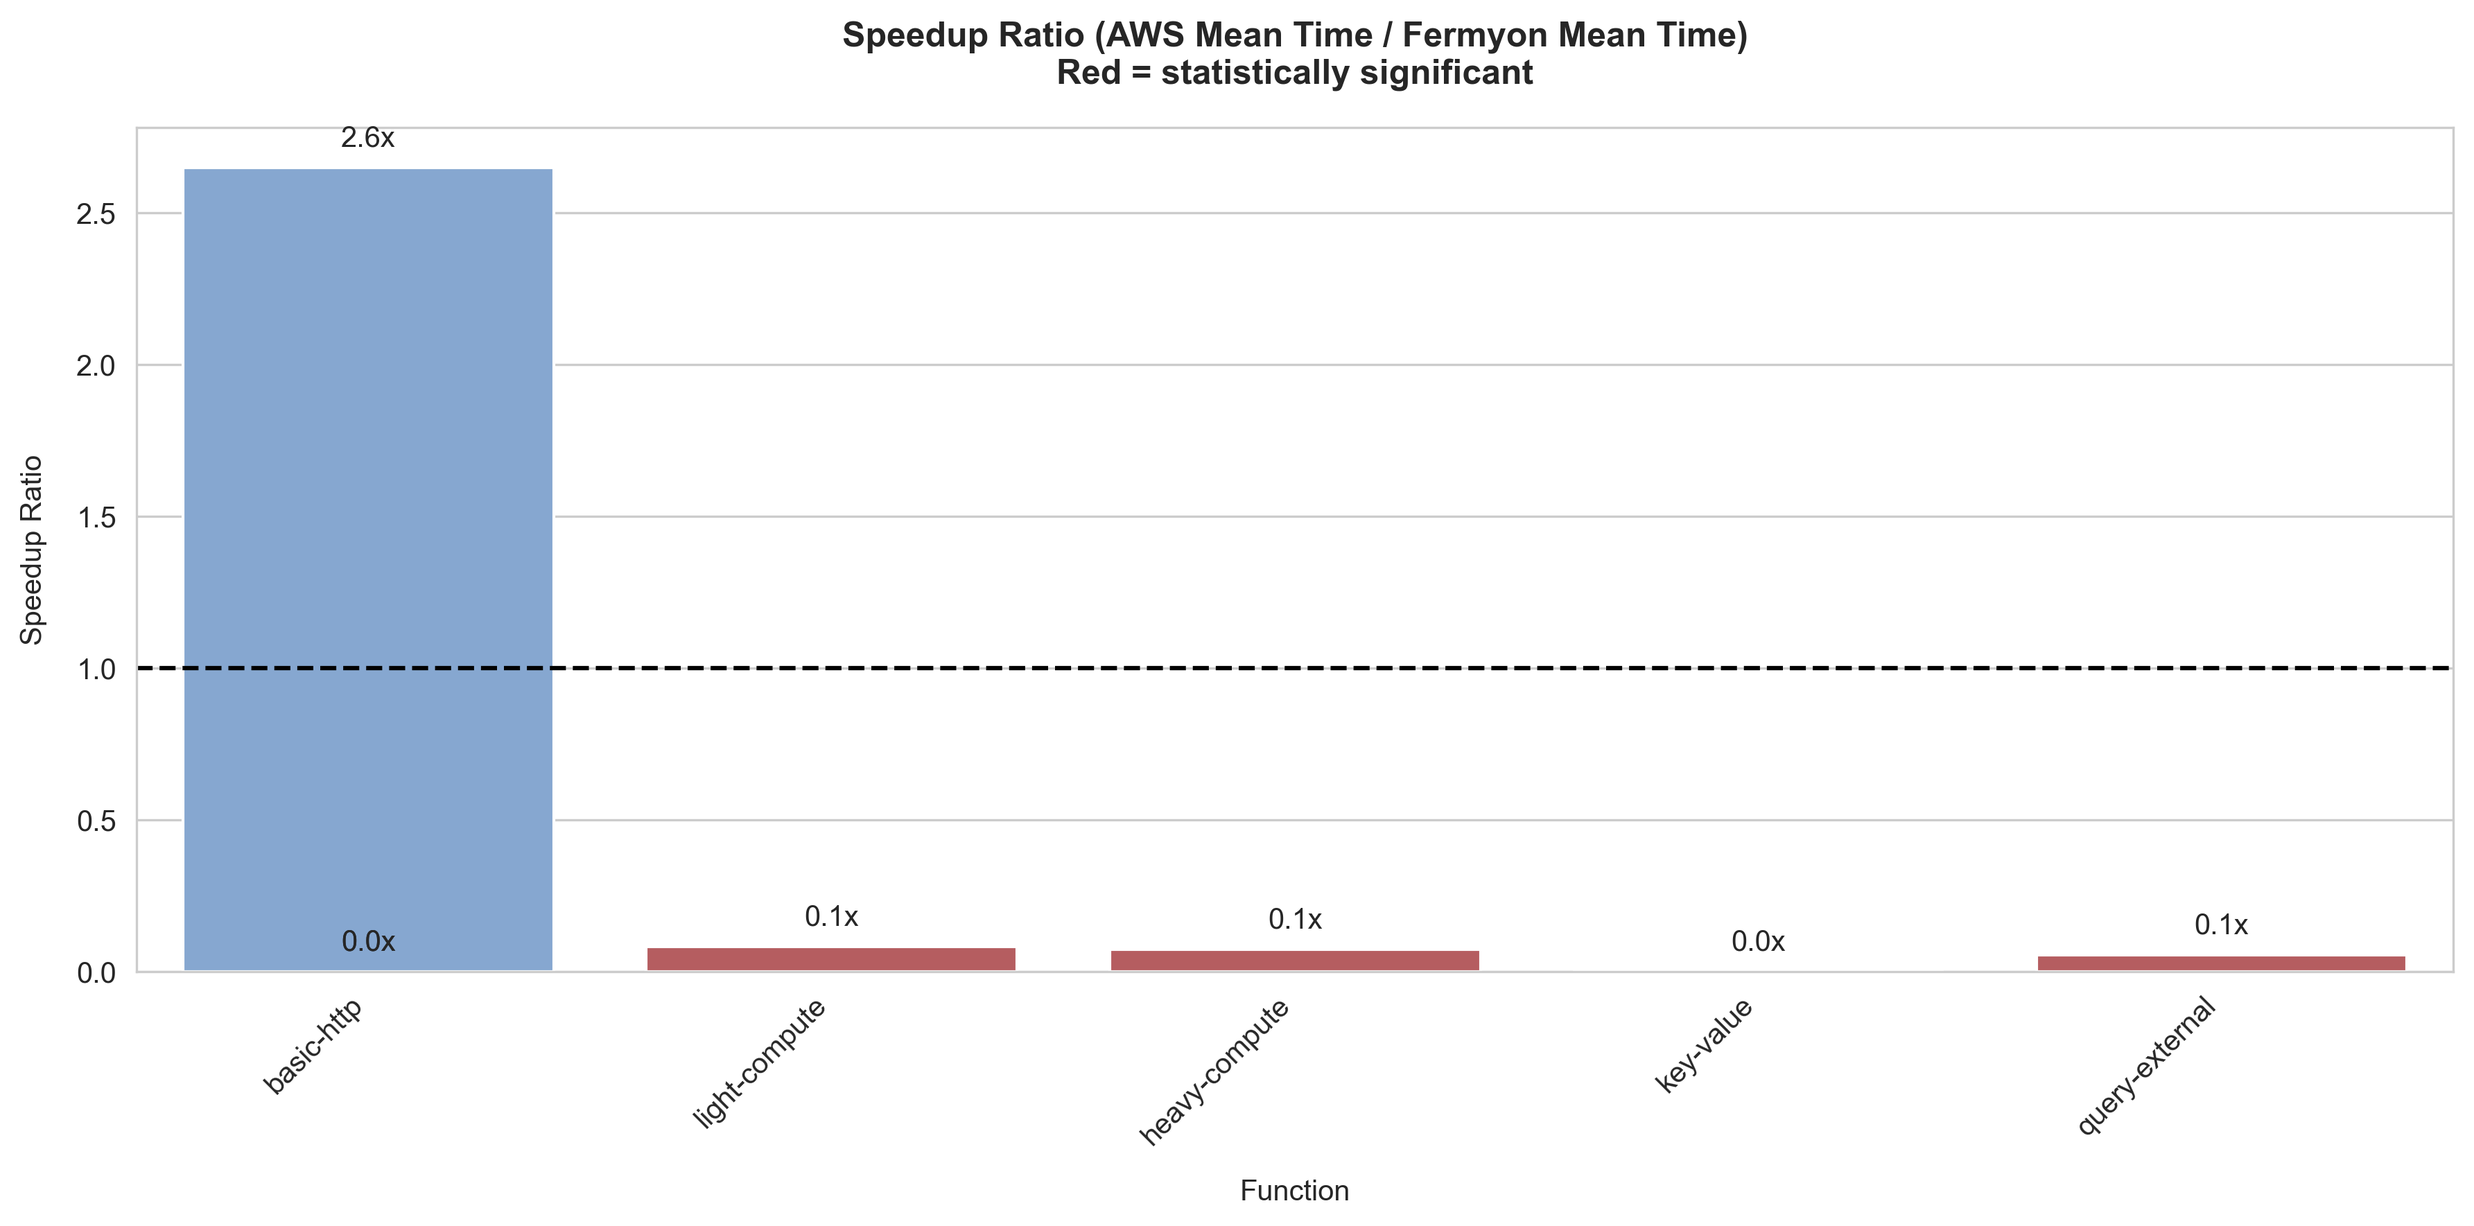
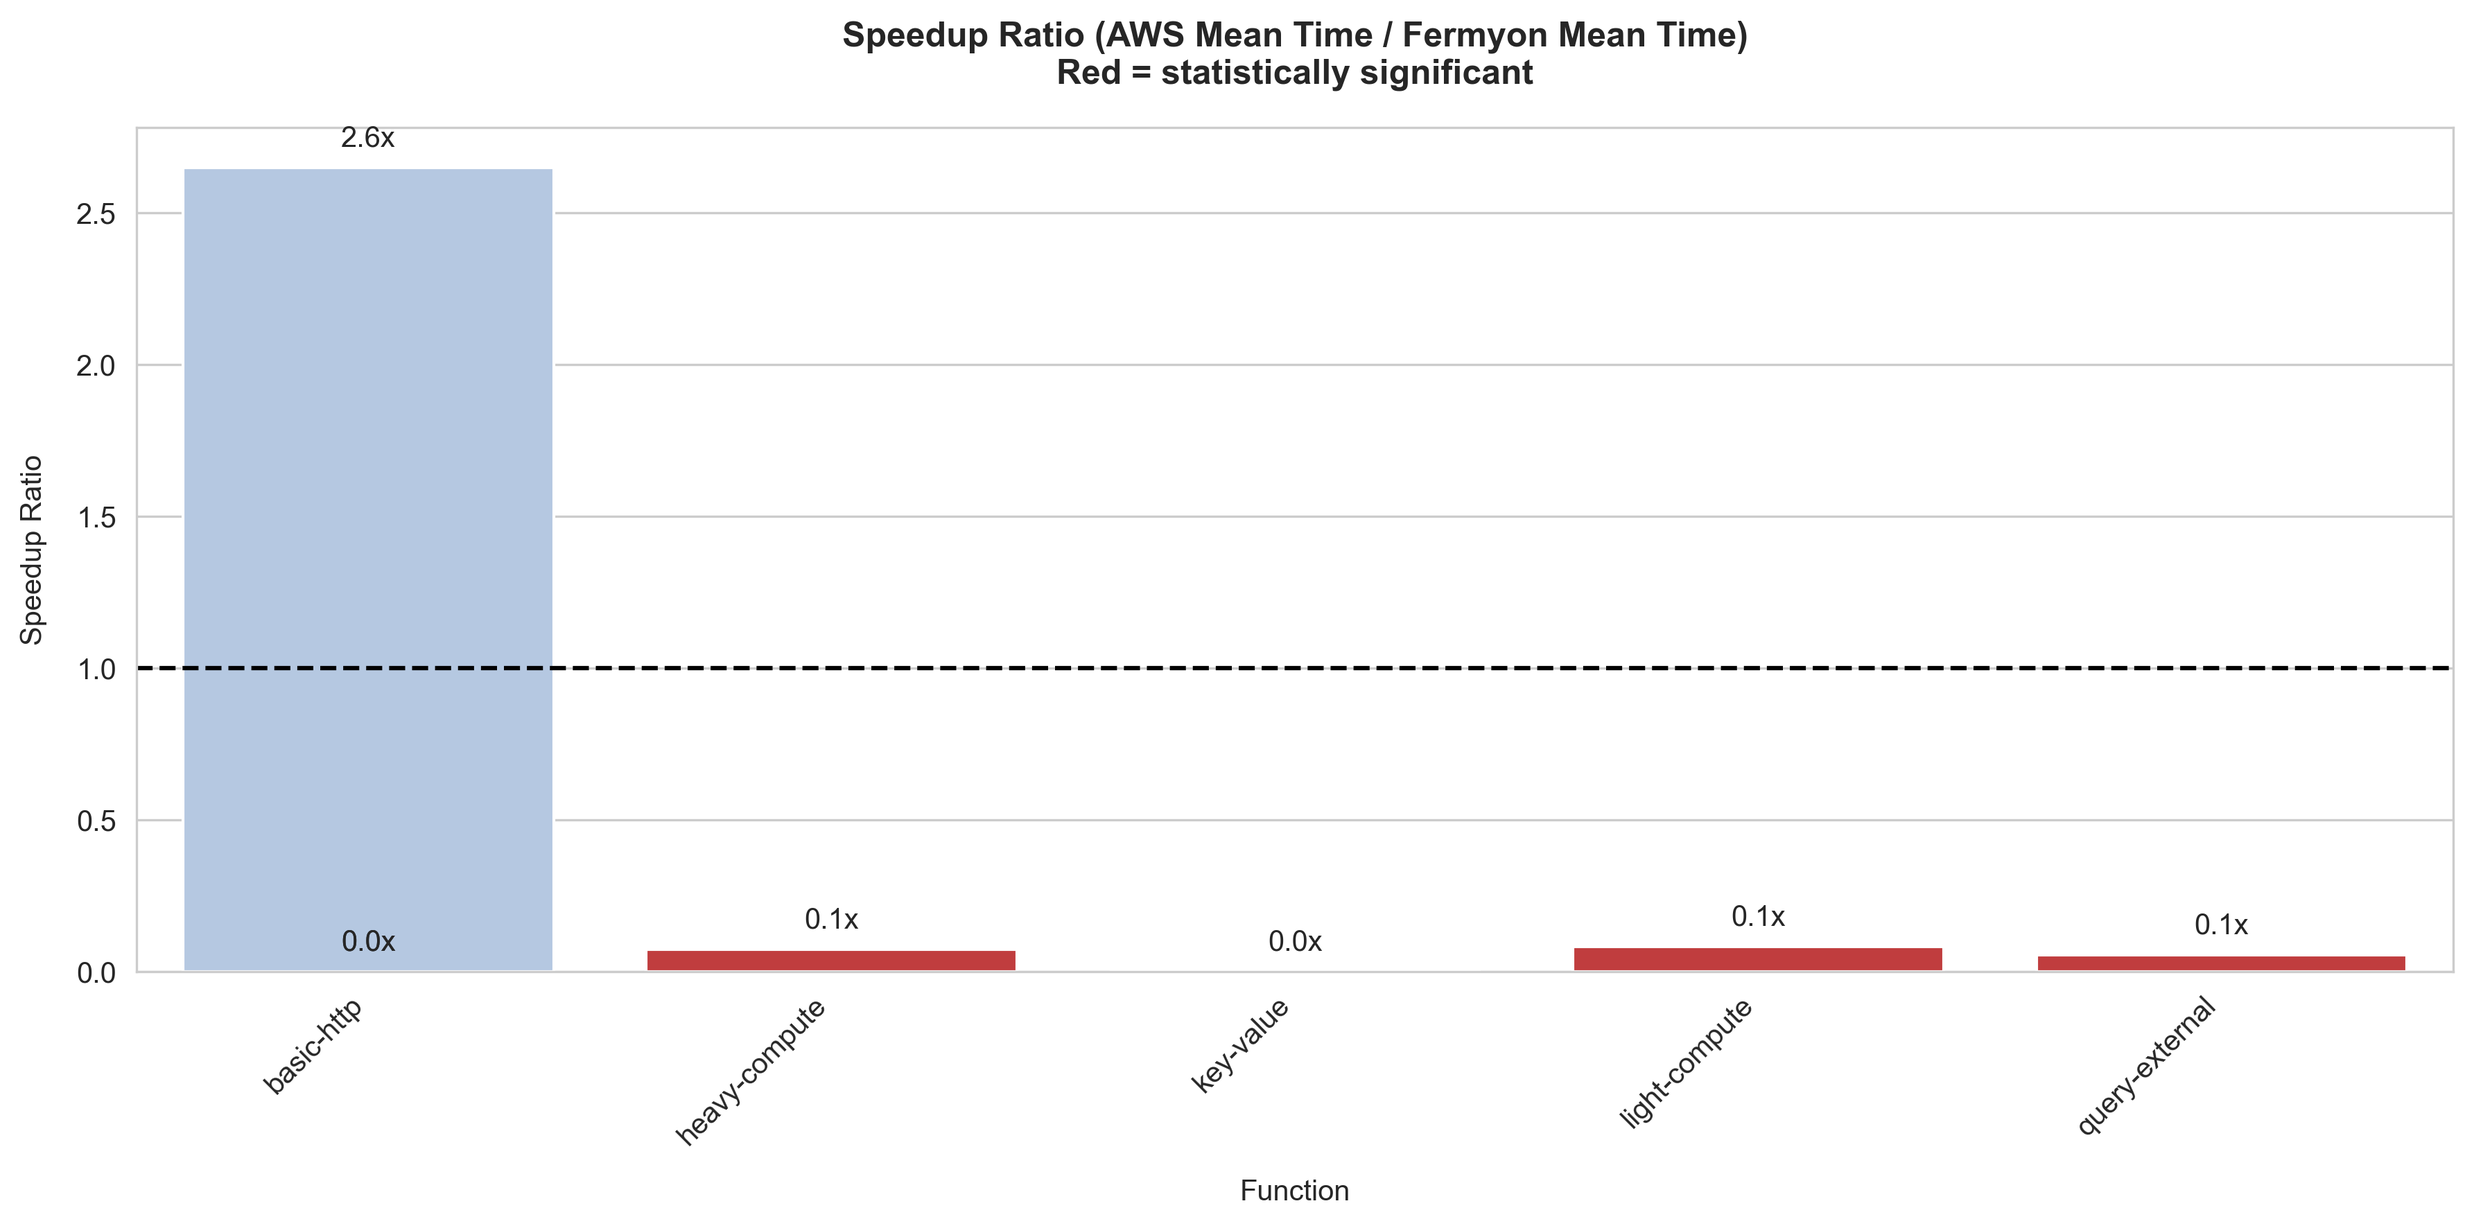
modify plots and graphs

diff --git a/scripts/h1_execution_performance.py b/scripts/h1_execution_performance.py
@@ -11,14 +11,32 @@ OUTPUT_DIR = "outputs"
 os.makedirs(os.path.join(OUTPUT_DIR, "reports"), exist_ok=True)
 os.makedirs(os.path.join(OUTPUT_DIR, "figures"), exist_ok=True)
 
+# Define consistent ordering and colors
+FUNCTION_ORDER = ['basic-http', 'light-compute', 'heavy-compute', 'key-value', 'query-external']
+PLATFORM_ORDER = ['AWS Lambda', 'Fermyon Spin']  # AWS first for consistent ordering
+PLATFORM_COLORS = {'AWS Lambda': '#1f77b4', 'Fermyon Spin': '#ff7f0e'}  # Consistent with speedup_ratio colors
+SIGNIFICANCE_COLOR = '#d62728'  # Red for significant results
+INSIGNIFICANT_COLOR = '#aec7e8'  # Blue for non-significant
+
+# Set global style parameters
+sns.set_style("whitegrid")
+plt.rcParams['figure.facecolor'] = 'white'
+plt.rcParams['axes.titlesize'] = 14
+plt.rcParams['axes.titleweight'] = 'bold'
+plt.rcParams['axes.labelsize'] = 12
+plt.rcParams['xtick.labelsize'] = 10
+plt.rcParams['ytick.labelsize'] = 10
+
+
 def load_data():
     """Load and verify the cleaned data"""
     if not os.path.exists(DATA_PATH):
         raise FileNotFoundError(f"Cleaned data not found at {DATA_PATH}. Please run clean_data.py first.")
-    
+
     df = pd.read_csv(DATA_PATH, parse_dates=['timestamp'])
     print(f"Loaded {len(df)} records from {DATA_PATH}")
     return df
+
 
 def calculate_stats(group):
     """Helper function to calculate statistics for a group"""
@@ -32,10 +50,11 @@ def calculate_stats(group):
         'count': group.count()
     })
 
+
 def check_normality(df_exec):
     """Check normality of execution times for each function-platform combination"""
     normality_results = []
-    
+
     for (func, platform), group in df_exec.groupby(['name', 'platform']):
         if len(group) > 3:
             stat, p = stats.shapiro(group['execution_ms'])
@@ -47,14 +66,16 @@ def check_normality(df_exec):
                 'is_normal': p > 0.05,
                 'sample_size': len(group)
             })
-    
+
     normality_df = pd.DataFrame(normality_results)
     normality_df.to_csv(os.path.join(OUTPUT_DIR, "reports", "normality_tests.csv"), index=False)
-    
-    # Generate visualization
+
+    # Generate visualization with consistent ordering
     plt.figure(figsize=(10, 6))
-    sns.scatterplot(x='function', y='p_value', hue='platform', style='is_normal',
-                    data=normality_df, palette=['#4C72B0', '#DD8452'], s=100)
+    sns.scatterplot(
+        x='function', y='p_value', hue='platform', style='is_normal',
+        data=normality_df, palette=PLATFORM_COLORS, s=100,
+        hue_order=PLATFORM_ORDER)
     plt.axhline(y=0.05, color='red', linestyle='--', label='Significance Threshold (0.05)')
     plt.title('Normality Test Results (Shapiro-Wilk)', weight='bold')
     plt.ylabel('p-value', labelpad=10)
@@ -64,57 +85,60 @@ def check_normality(df_exec):
     plt.legend(title='Normality', bbox_to_anchor=(1.05, 1), loc='upper left')
     plt.tight_layout()
     plt.savefig(os.path.join(OUTPUT_DIR, "figures", "normality_test_results.png"), 
-               dpi=300, bbox_inches='tight')
+                dpi=300, bbox_inches='tight')
     plt.close()
-    
+
     return normality_df
+
 
 def analyze_execution_performance(df):
     """Main analysis function"""
-    # Filter out cold starts for execution time analysis
     df_exec = df[df['cold_start'] == False].copy()
-    
-    # Platform-level analysis
+
+    # Calculate platform statistics
     platform_stats = df_exec.groupby('platform')['execution_ms'].apply(calculate_stats).unstack()
     platform_stats.to_csv(os.path.join(OUTPUT_DIR, "reports", "platform_execution_stats.csv"))
-    
-    # Function-level analysis
+
+    # Calculate function statistics with consistent ordering
+    df_exec['name'] = pd.Categorical(df_exec['name'], categories=FUNCTION_ORDER, ordered=True)
     function_stats = df_exec.groupby(['name', 'platform'])['execution_ms'].apply(calculate_stats).unstack()
     function_stats.to_csv(os.path.join(OUTPUT_DIR, "reports", "function_execution_stats.csv"))
-    
+
     return df_exec, platform_stats, function_stats
 
+
 def perform_comparative_analysis(df_exec, normality_df=None):
-    """Compare Fermyon vs AWS Lambda performance using appropriate statistical tests"""
+    """Perform comparative analysis between platforms for each function"""
     functions = df_exec['name'].unique()
     comparison_results = []
 
     for func in functions:
         fermyon_data = df_exec[(df_exec['name'] == func) & (df_exec['platform'] == 'Fermyon Spin')]['execution_ms']
         aws_data = df_exec[(df_exec['name'] == func) & (df_exec['platform'] == 'AWS Lambda')]['execution_ms']
-        
+
         if len(fermyon_data) > 1 and len(aws_data) > 1:
-            # Check normality if results are available
             use_parametric = False
             if normality_df is not None:
-                fermyon_normal = normality_df[(normality_df['function'] == func) & 
-                                           (normality_df['platform'] == 'Fermyon Spin')]['is_normal'].values[0]
-                aws_normal = normality_df[(normality_df['function'] == func) & 
-                                        (normality_df['platform'] == 'AWS Lambda')]['is_normal'].values[0]
+                fermyon_normal = normality_df[
+                    (normality_df['function'] == func) & 
+                    (normality_df['platform'] == 'Fermyon Spin')
+                ]['is_normal'].values[0]
+                aws_normal = normality_df[
+                    (normality_df['function'] == func) & 
+                    (normality_df['platform'] == 'AWS Lambda')
+                ]['is_normal'].values[0]
                 use_parametric = fermyon_normal and aws_normal
-            
+
             if use_parametric:
-                # Use t-test for normally distributed data
                 stat, p_value = stats.ttest_ind(fermyon_data, aws_data, equal_var=False)
                 test_used = 't-test'
             else:
-                # Use Mann-Whitney U test for non-normal data
                 stat, p_value = stats.mannwhitneyu(fermyon_data, aws_data, alternative='two-sided')
                 test_used = 'mannwhitneyu'
         else:
             stat, p_value = np.nan, np.nan
             test_used = None
-        
+
         comparison_results.append({
             'function': func,
             'fermyon_mean': fermyon_data.mean(),
@@ -129,42 +153,72 @@ def perform_comparative_analysis(df_exec, normality_df=None):
             'statistic': stat,
             'p_value': p_value,
             'test_used': test_used,
-            'fermyon_faster': fermyon_data.mean() < aws_data.mean()
+            'fermyon_faster': fermyon_data.mean() < aws_data.mean(),
+            'is_significant': p_value < 0.05 if pd.notna(p_value) else False
         })
 
     comparison_df = pd.DataFrame(comparison_results)
     comparison_df.to_csv(os.path.join(OUTPUT_DIR, "reports", "function_comparison_stats.csv"), index=False)
     return comparison_df
 
+
 def generate_visualizations(df_exec, comparison_df):
-    """Generate non-overlapping performance comparison visualizations"""
-    sns.set_style("whitegrid")
-    plt.rcParams['figure.facecolor'] = 'white'
+    """Generate all visualizations with consistent styling and ordering"""
     
-    # 1. Mean Execution Time Comparison
+    # Ensure consistent ordering
+    df_exec['name'] = pd.Categorical(df_exec['name'], categories=FUNCTION_ORDER, ordered=True)
+    comparison_df['function'] = pd.Categorical(comparison_df['function'], categories=FUNCTION_ORDER, ordered=True)
+    
+    # 1. Coefficient of Variation Comparison Bar Plot
     plt.figure(figsize=(12, 6))
+    cv_df = comparison_df.melt(id_vars=['function'], 
+                             value_vars=['aws_cv', 'fermyon_cv'],
+                             var_name='platform', value_name='cv')
+    cv_df['platform'] = cv_df['platform'].map({'aws_cv': 'AWS Lambda', 'fermyon_cv': 'Fermyon Spin'})
     
-    # Prepare data for plotting
+    sns.barplot(x='function', y='cv', hue='platform', data=cv_df,
+                palette=PLATFORM_COLORS, hue_order=PLATFORM_ORDER)
+    plt.title("Coefficient of Variation Comparison", weight='bold', pad=15)
+    plt.ylabel("Coefficient of Variation (%)", labelpad=10)
+    plt.xlabel("Function", labelpad=10)
+    plt.xticks(rotation=45, ha='right')
+    plt.legend(title='Platform', bbox_to_anchor=(1.05, 1), loc='upper left')
+    plt.tight_layout()
+    plt.savefig(os.path.join(OUTPUT_DIR, "figures", "cv_comparison_barplot.png"), 
+                dpi=300, bbox_inches='tight')
+    plt.close()
+    
+    # 2. Function Execution Bar Plot
+    plt.figure(figsize=(12, 6))
+    ax = sns.barplot(x='name', y='execution_ms', hue='platform', data=df_exec,
+                     palette=PLATFORM_COLORS, hue_order=PLATFORM_ORDER,
+                     estimator=np.mean, errorbar=('ci', 95))
+    plt.title("Mean Execution Time by Function", weight='bold', pad=15)
+    plt.ylabel("Execution Time (ms)", labelpad=10)
+    plt.xlabel("Function", labelpad=10)
+    plt.xticks(rotation=45, ha='right')
+    plt.legend(title='Platform', bbox_to_anchor=(1.05, 1), loc='upper left')
+    plt.tight_layout()
+    plt.savefig(os.path.join(OUTPUT_DIR, "figures", "function_execution_barplot.png"), 
+                dpi=300, bbox_inches='tight')
+    plt.close()
+    
+    # 3. Mean Execution Comparison (with significance stars)
+    plt.figure(figsize=(12, 6))
     plot_df = pd.DataFrame({
         'function': np.concatenate([comparison_df['function'], comparison_df['function']]),
-        'platform': ['Fermyon Spin']*len(comparison_df) + ['AWS Lambda']*len(comparison_df),
-        'mean_time': np.concatenate([comparison_df['fermyon_mean'], comparison_df['aws_mean']]),
-        'is_faster': np.concatenate([
-            [True]*len(comparison_df),
-            [False]*len(comparison_df)
-        ])
+        'platform': PLATFORM_ORDER * len(comparison_df),
+        'mean_time': np.concatenate([comparison_df['aws_mean'], comparison_df['fermyon_mean']])
     })
     
-    # Create the plot
-    ax = sns.barplot(x='function', y='mean_time', hue='platform',
-                    data=plot_df, palette={'Fermyon Spin': '#4C72B0', 'AWS Lambda': '#DD8452'})
-    
-    # Add significance markers
+    ax = sns.barplot(x='function', y='mean_time', hue='platform', data=plot_df,
+                     palette=PLATFORM_COLORS, hue_order=PLATFORM_ORDER)
+
     for i, row in comparison_df.iterrows():
-        if row['p_value'] < 0.05:
+        if row['is_significant']:
             ax.text(i, max(row['fermyon_mean'], row['aws_mean']) * 1.1, "*", 
-                   ha='center', va='bottom', fontsize=20, color='black')
-    
+                    ha='center', va='bottom', fontsize=20, color=SIGNIFICANCE_COLOR)
+
     plt.title("Mean Execution Time Comparison\n(* = statistically significant difference)", 
               weight='bold', pad=15)
     plt.ylabel("Mean Execution Time (ms)", labelpad=10)
@@ -173,39 +227,75 @@ def generate_visualizations(df_exec, comparison_df):
     plt.legend(title='Platform', bbox_to_anchor=(1.05, 1), loc='upper left')
     plt.tight_layout()
     plt.savefig(os.path.join(OUTPUT_DIR, "figures", "mean_execution_comparison.png"), 
-               dpi=300, bbox_inches='tight')
+                dpi=300, bbox_inches='tight')
     plt.close()
     
-    # 2. Speedup Ratio Plot
+    # 4. Performance Difference Bar Plot (Fermyon vs AWS)
     plt.figure(figsize=(12, 6))
+    ax = sns.barplot(x='function', y='mean_difference', data=comparison_df,
+                     palette=comparison_df['is_significant'].map({
+                         True: SIGNIFICANCE_COLOR,
+                         False: INSIGNIFICANT_COLOR
+                     }))
+    plt.axhline(0, color='black', linestyle='--')
+    plt.title("Performance Difference (Fermyon Mean - AWS Mean)\nRed = statistically significant", 
+              weight='bold', pad=15)
+    plt.ylabel("Mean Time Difference (ms)", labelpad=10)
+    plt.xlabel("Function", labelpad=10)
+    plt.xticks(rotation=45, ha='right')
+    
+    for p in ax.patches:
+        height = p.get_height()
+        ax.text(p.get_x() + p.get_width()/2., height,
+                f'{height:.1f}',
+                ha='center', va='bottom')
+    
+    plt.tight_layout()
+    plt.savefig(os.path.join(OUTPUT_DIR, "figures", "performance_difference_barplot.png"), 
+                dpi=300, bbox_inches='tight')
+    plt.close()
+    
+    # 5. Platform Execution Boxplot
+    plt.figure(figsize=(12, 6))
+    sns.boxplot(x='name', y='execution_ms', hue='platform', data=df_exec,
+                palette=PLATFORM_COLORS, hue_order=PLATFORM_ORDER)
+    plt.title("Execution Time Distribution by Platform", weight='bold', pad=15)
+    plt.ylabel("Execution Time (ms)", labelpad=10)
+    plt.xlabel("Function", labelpad=10)
+    plt.xticks(rotation=45, ha='right')
+    plt.legend(title='Platform', bbox_to_anchor=(1.05, 1), loc='upper left')
+    plt.tight_layout()
+    plt.savefig(os.path.join(OUTPUT_DIR, "figures", "platform_execution_boxplot.png"), 
+                dpi=300, bbox_inches='tight')
+    plt.close()
+    
+    # 6. Speedup Ratio (using consistent colors)
     speedup_df = comparison_df.assign(
-        speedup_ratio=lambda x: x["aws_mean"] / x["fermyon_mean"],
-        is_significant=lambda x: x["p_value"] < 0.05
+        speedup_ratio=lambda x: x["aws_mean"] / x["fermyon_mean"]
     )
     
+    plt.figure(figsize=(12, 6))
     ax = sns.barplot(x='function', y='speedup_ratio', hue='is_significant',
-                    data=speedup_df, palette={True: '#C44E52', False: '#7AA6DC'},
-                    dodge=False)
-    
+                     data=speedup_df, palette={True: SIGNIFICANCE_COLOR, False: INSIGNIFICANT_COLOR}, 
+                     dodge=False)
+
     plt.axhline(1, color='black', linestyle='--')
     plt.title("Speedup Ratio (AWS Mean Time / Fermyon Mean Time)\nRed = statistically significant", 
               weight='bold', pad=15)
     plt.ylabel("Speedup Ratio", labelpad=10)
     plt.xlabel("Function", labelpad=10)
     plt.xticks(rotation=45, ha='right')
-    
-    # Annotate values
+
     for p in ax.patches:
-        ax.annotate(f"{p.get_height():.1f}x", 
-                   (p.get_x() + p.get_width() / 2., p.get_height()), 
-                   ha='center', va='center', 
-                   xytext=(0, 10), textcoords='offset points')
-    
-    plt.legend([],[], frameon=False)
+        ax.annotate(f"{p.get_height():.1f}x", (p.get_x() + p.get_width() / 2., p.get_height()),
+                    ha='center', va='center', xytext=(0, 10), textcoords='offset_points')
+
+    plt.legend([], [], frameon=False)
     plt.tight_layout()
     plt.savefig(os.path.join(OUTPUT_DIR, "figures", "speedup_ratio.png"), 
-               dpi=300, bbox_inches='tight')
+                dpi=300, bbox_inches='tight')
     plt.close()
+
 
 def generate_report(comparison_df, normality_df):
     """Generate a comprehensive summary report with normality and comparison analysis"""
@@ -223,7 +313,7 @@ def generate_report(comparison_df, normality_df):
     test_distribution = comparison_df['test_used'].value_counts()
     
     # Prepare significance summary
-    significant_comparisons = comparison_df[comparison_df['p_value'] < 0.05]
+    significant_comparisons = comparison_df[comparison_df['is_significant']]
     
     report_summary = f"""
 Hypothesis 1 Analysis Report - Handler Execution Performance (execution_ms)
@@ -260,11 +350,9 @@ the hypothesis that Wasm (Fermyon) executes business logic faster than microVMs 
 Note: All tests conducted at 95% confidence level (α=0.05)
 """
     
-    # Ensure output directory exists
-    os.makedirs(os.path.join(OUTPUT_DIR, "reports"), exist_ok=True)
-    
     with open(os.path.join(OUTPUT_DIR, "reports", "hypothesis1_summary.txt"), 'w') as f:
         f.write(report_summary)
+
 
 def main():
     print("Starting Hypothesis 1 Analysis")
@@ -289,6 +377,7 @@ def main():
     except Exception as e:
         print(f"Error during analysis: {str(e)}")
         raise
+
 
 if __name__ == "__main__":
     main()
